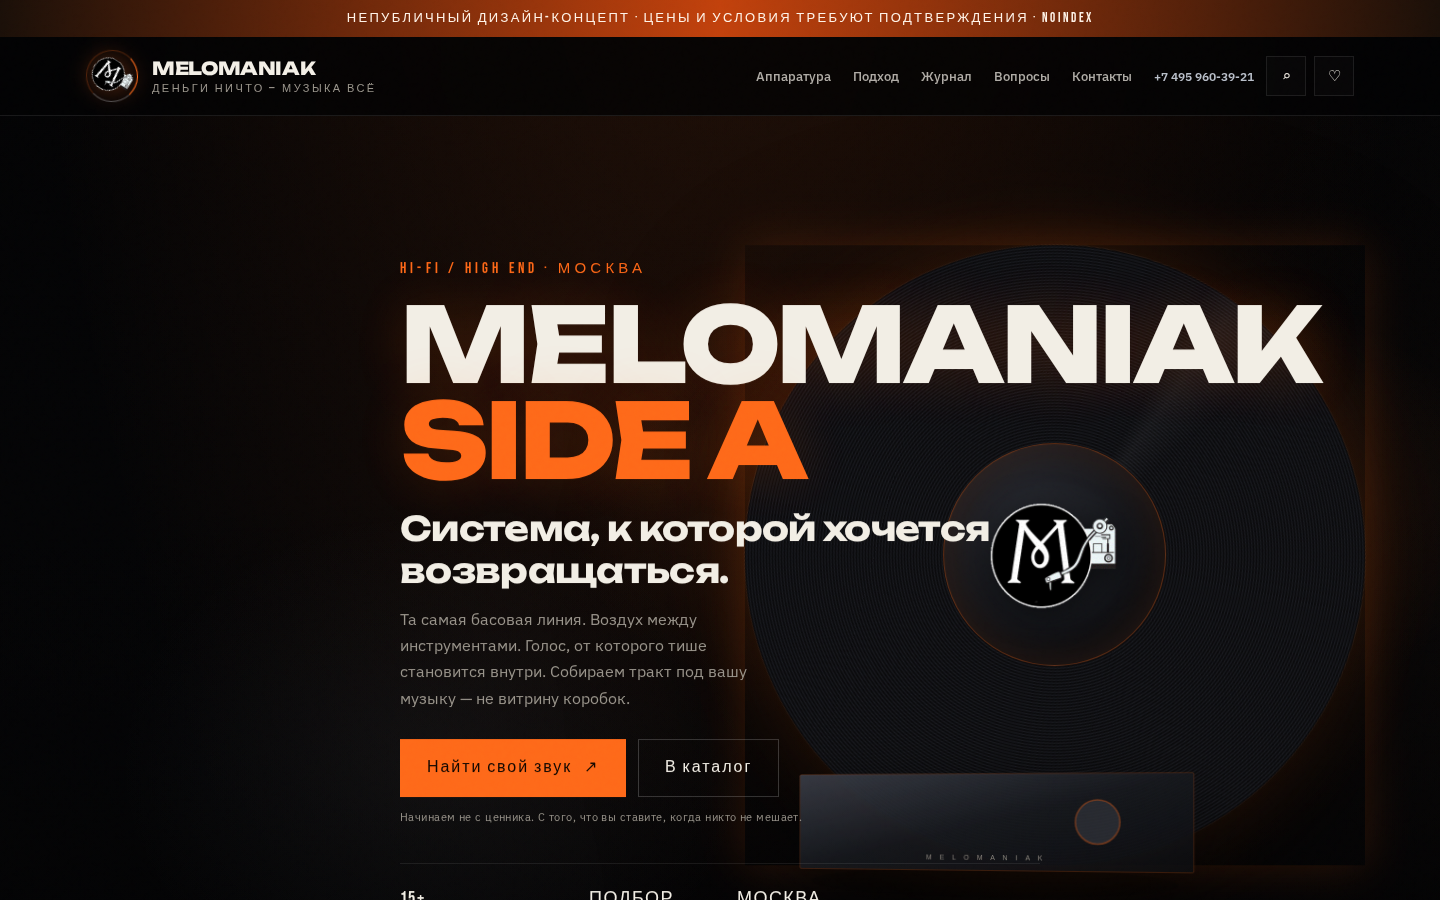
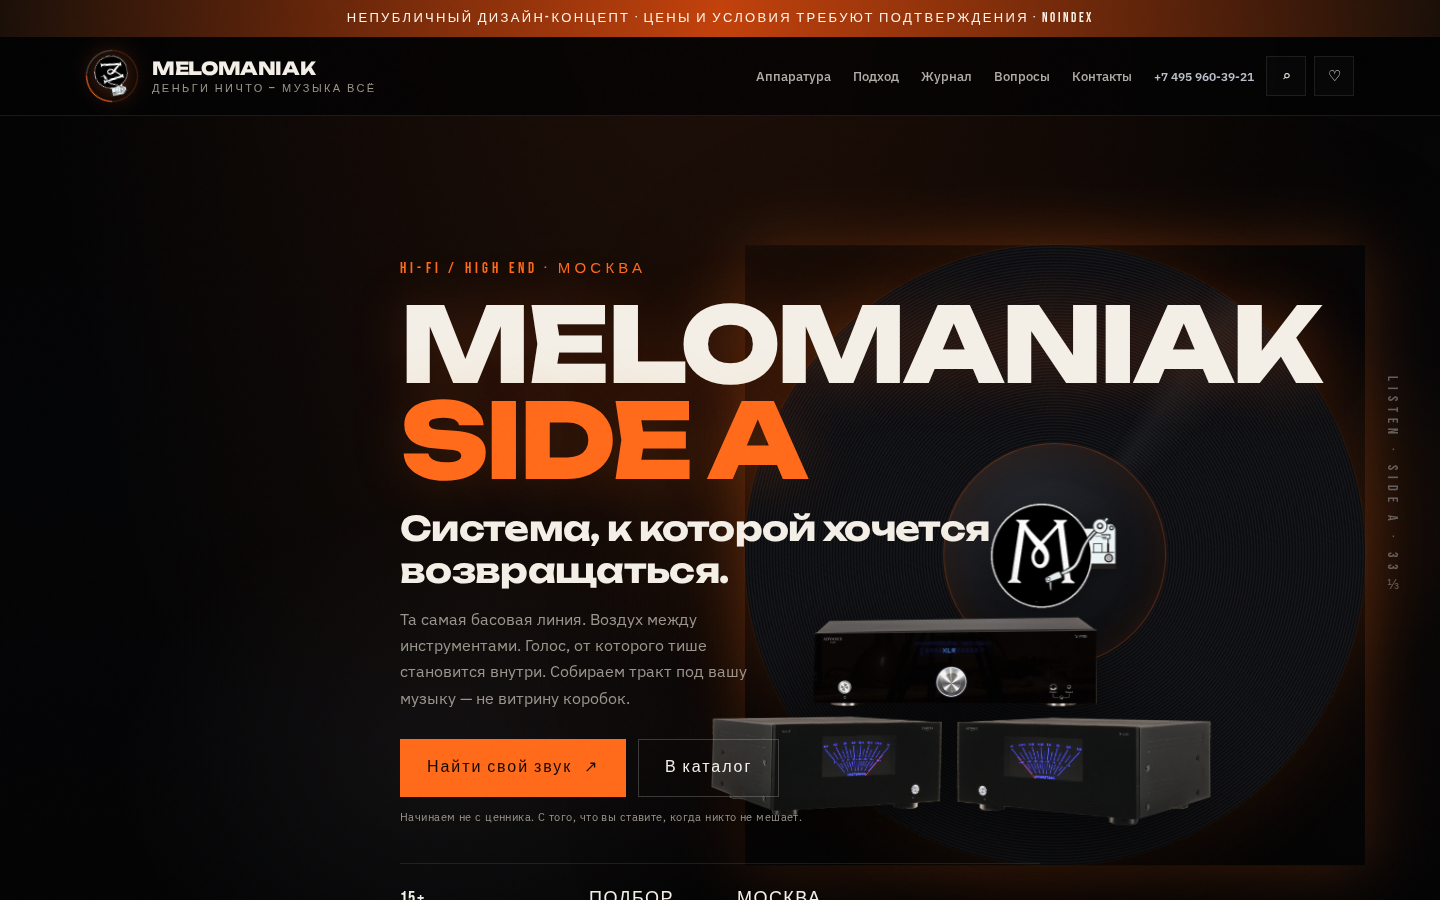
Polish VOID STAGE hero product photo and catalog stage lighting
Use real X-A220 hero media, vertical SIDE A mark, and vignette/contrast
treatment so WooCommerce white-bg shots sit in the dark stage panels.

Changed region(s): [[0.4688, 0.7467, 0.8438, 0.9644], [0.5625, 0.6844, 0.75, 0.7778], [0.0625, 0.0622, 0.0938, 0.1244]]

diff --git a/melomaniak/index.html b/melomaniak/index.html
@@ -228,9 +228,19 @@ button:focus-visible,a:focus-visible,input:focus-visible,select:focus-visible,te
   filter:drop-shadow(0 4px 16px rgba(0,0,0,.6))
 }
 .hero-equip{
-  position:absolute;bottom:12%;left:52%;width:min(42vw,480px);z-index:2;
-  filter:drop-shadow(0 30px 40px rgba(0,0,0,.7));opacity:.88;
-  transform:perspective(800px) rotateY(-8deg);pointer-events:none
+  position:absolute;bottom:10%;left:48%;width:min(46vw,520px);z-index:2;
+  filter:drop-shadow(0 36px 48px rgba(0,0,0,.85));opacity:.95;
+  transform:perspective(900px) rotateY(-10deg) rotateX(4deg);pointer-events:none
+}
+.hero-equip img{
+  width:100%;height:auto;display:block;object-fit:contain;
+  mask-image:linear-gradient(180deg,#000 70%,transparent 100%);
+  -webkit-mask-image:linear-gradient(180deg,#000 70%,transparent 100%)
+}
+.hero-side-mark{
+  position:absolute;right:clamp(12px,3vw,36px);top:28%;
+  writing-mode:vertical-rl;font-family:var(--rock);font-size:14px;
+  letter-spacing:.42em;color:rgba(184,190,200,.45);z-index:3;pointer-events:none
 }
 .hero-copy{
   position:relative;z-index:3;padding:clamp(100px,14vh,160px) 0 clamp(48px,8vh,80px);
@@ -333,14 +343,21 @@ h2{
 .product-art{
   position:relative;height:280px;
   background:
-    radial-gradient(ellipse at 50% 80%,rgba(255,106,26,.08),transparent 55%),
-    linear-gradient(180deg,#161820,#0c0d12);
+    radial-gradient(ellipse at 50% 78%,rgba(255,106,26,.1),transparent 50%),
+    linear-gradient(165deg,#1a1c24 0%,#0c0d12 55%,#08090c 100%);
   display:grid;place-items:center;overflow:hidden;
   border-bottom:1px solid var(--line)
 }
+.product-art:after{
+  content:"";position:absolute;inset:0;pointer-events:none;z-index:1;
+  background:
+    linear-gradient(180deg,rgba(3,3,4,.15),transparent 30%,rgba(3,3,4,.55)),
+    radial-gradient(ellipse at 50% 100%,rgba(0,0,0,.5),transparent 55%)
+}
 .product-art img{
-  height:100%;width:100%;object-fit:contain;padding:22px;
-  transition:transform .6s var(--ease);filter:drop-shadow(0 18px 24px rgba(0,0,0,.5))
+  height:100%;width:100%;object-fit:contain;padding:22px;position:relative;z-index:0;
+  transition:transform .6s var(--ease);
+  filter:drop-shadow(0 18px 28px rgba(0,0,0,.65)) contrast(1.04) saturate(.95)
 }
 .card:hover .product-art img{transform:scale(1.05)}
 .fav{
@@ -361,7 +378,7 @@ h2{
 }
 .card h3 a:hover{color:var(--ember)}
 .card p{font-size:12px;color:var(--muted);margin:0 0 16px;min-height:2.6em}
-.price{font-family:var(--rock);font-size:22px;letter-spacing:.04em;font-weight:400}
+.price{font-family:var(--rock);font-size:22px;letter-spacing:.04em;font-weight:400;color:var(--ember)}
 .price del{font-size:13px;font-weight:400;color:var(--muted);margin-left:8px;font-family:var(--sans)}
 .cardfoot{display:flex;align-items:center;justify-content:space-between}
 .round{
@@ -571,6 +588,7 @@ footer{padding:32px 0;border-top:1px solid var(--line);font-size:11px;color:var(
       </div>
     </div>
     <div class="hero-equip" id="heroEquipment" aria-hidden="true"></div>
+    <span class="hero-side-mark">LISTEN · SIDE A · 33⅓</span>
     <div class="wrap hero-copy">
       <p class="eyebrow">HI-FI / HIGH END · МОСКВА</p>
       <p class="hero-brand">MELOMANIAK<span>SIDE A</span></p>
@@ -901,7 +919,15 @@ function article(i){
   document.getElementById("detailbody").innerHTML=`<div class="eyebrow">${s.label}</div><h2>${s.title}</h2><div class="article-body"><p>${s.body}</p></div><div class="notice">В демо — аннотация. Полный архив статей не импортирован.</div><a class="btn ghost" href="https://xn--80aannlcfckh.xn--p1ai/?s=${encodeURIComponent(s.title)}" target="_blank" rel="noopener">Найти материал на оригинале ↗</a>`;
   openDialog("detail");
 }
-document.getElementById("heroEquipment").innerHTML=illustration();
+(function setHeroMedia(){
+  const el=document.getElementById("heroEquipment");
+  const src=manifest.products?.["Advance Acoustic X-A220 + X-P700"];
+  if(src){
+    el.innerHTML=`<img src="${esc(src)}" alt="" decoding="async" width="520" height="320">`;
+  }else{
+    el.innerHTML=illustration();
+  }
+})();
 document.getElementById("stories").innerHTML=stories.map((s,i)=>`<button class="story" onclick="article(${i})"><div class="story-art">${s.art}</div><div class="story-inner"><p><small>${s.label}</small></p><h3>${s.title} ↗</h3><p>Открыть аннотацию материала из архива.</p></div></button>`).join("");
 render();
 </script>
